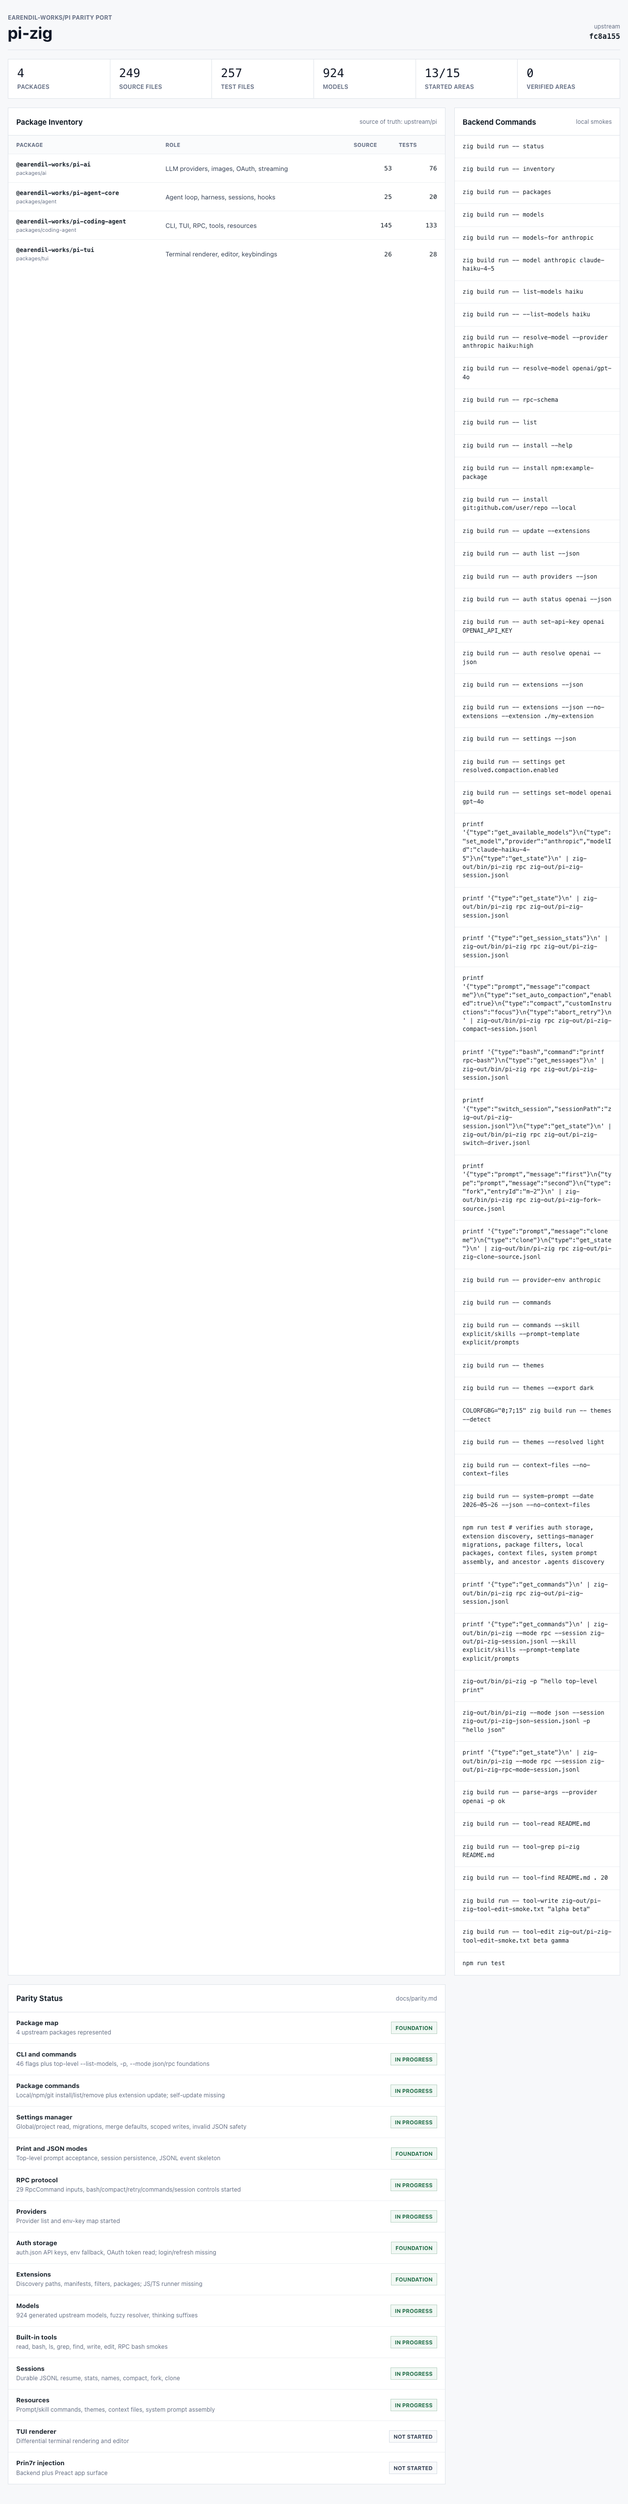
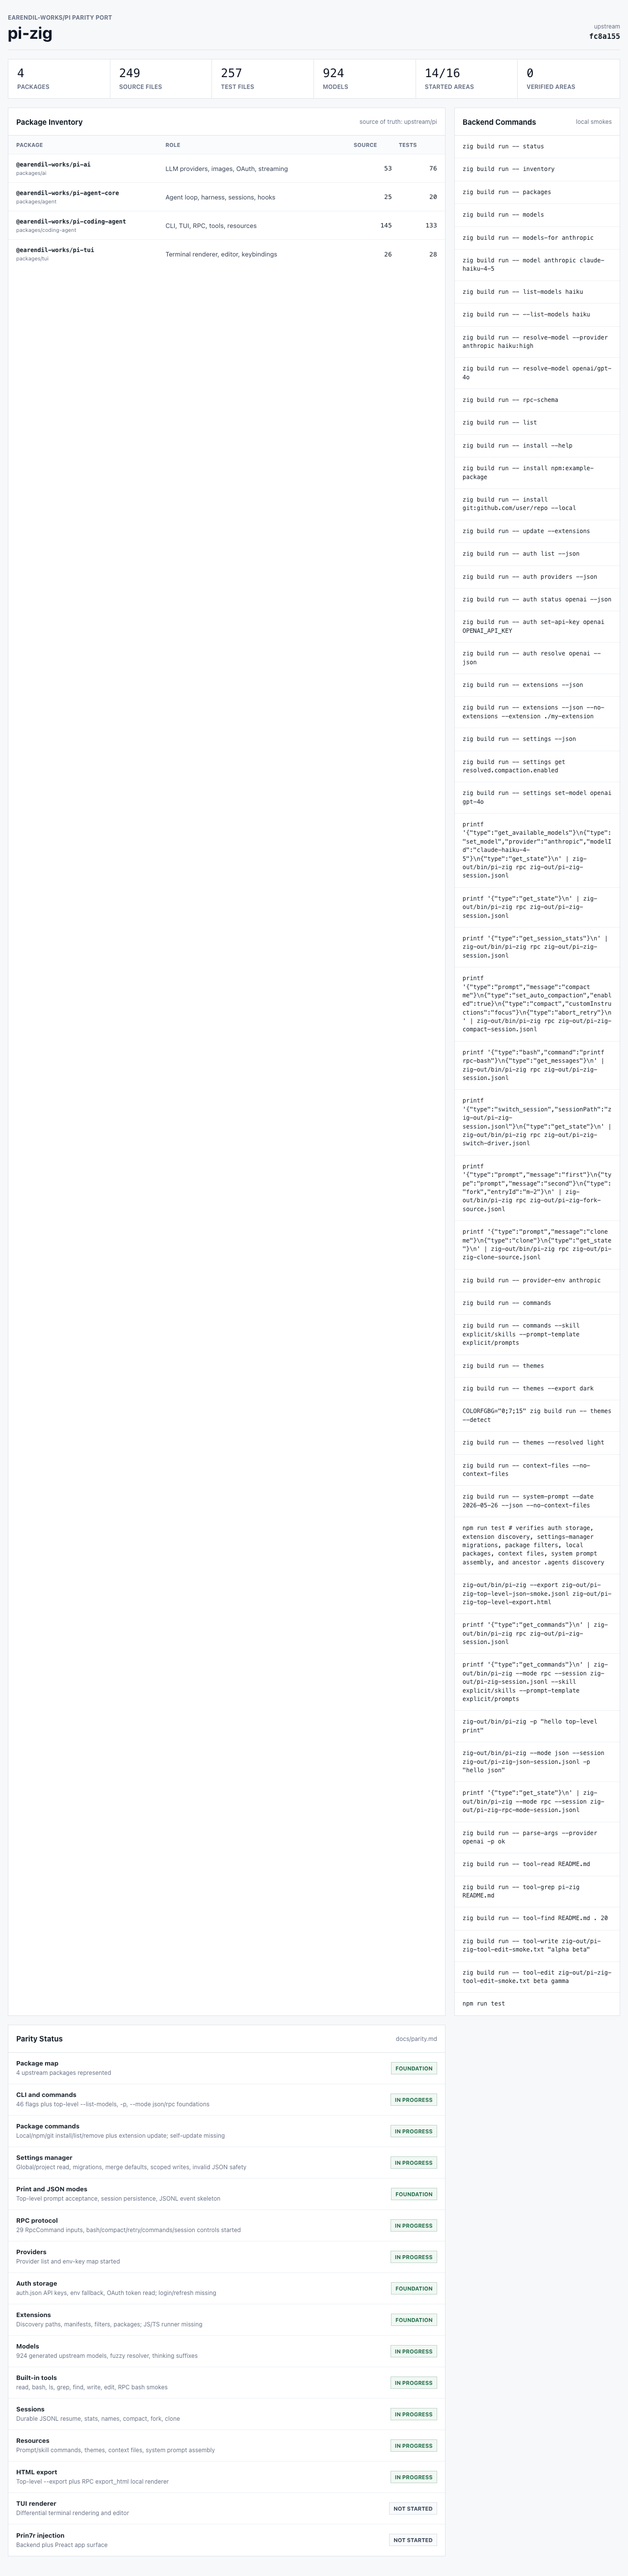
Port top-level HTML export

diff --git a/frontend/src/main.tsx b/frontend/src/main.tsx
@@ -62,6 +62,7 @@ const parity: ParityRow[] = [
   { area: 'Built-in tools', status: 'in_progress', target: 'read, bash, ls, grep, find, write, edit, RPC bash smokes' },
   { area: 'Sessions', status: 'in_progress', target: 'Durable JSONL resume, stats, names, compact, fork, clone' },
   { area: 'Resources', status: 'in_progress', target: 'Prompt/skill commands, themes, context files, system prompt assembly' },
+  { area: 'HTML export', status: 'in_progress', target: 'Top-level --export plus RPC export_html local renderer' },
   { area: 'TUI renderer', status: 'not_started', target: 'Differential terminal rendering and editor' },
   { area: 'Prin7r injection', status: 'not_started', target: 'Backend plus Preact app surface' }
 ];
@@ -111,6 +112,7 @@ const commands = [
   'zig build run -- context-files --no-context-files',
   'zig build run -- system-prompt --date 2026-05-26 --json --no-context-files',
   'npm run test # verifies auth storage, extension discovery, settings-manager migrations, package filters, local packages, context files, system prompt assembly, and ancestor .agents discovery',
+  'zig-out/bin/pi-zig --export zig-out/pi-zig-top-level-json-smoke.jsonl zig-out/pi-zig-top-level-export.html',
   'printf \'{"type":"get_commands"}\\n\' | zig-out/bin/pi-zig rpc zig-out/pi-zig-session.jsonl',
   'printf \'{"type":"get_commands"}\\n\' | zig-out/bin/pi-zig --mode rpc --session zig-out/pi-zig-session.jsonl --skill explicit/skills --prompt-template explicit/prompts',
   'zig-out/bin/pi-zig -p "hello top-level print"',

diff --git a/docs/parity.md b/docs/parity.md
@@ -26,6 +26,6 @@ Status values:
 | Extensions | `core/extensions/*`, docs/extensions.md | `src/pi/extensions.zig`, future JS/TS runner bridge | foundation | `zig-out/bin/pi-zig extensions --json` discovers project `.pi/extensions`, user `~/.pi/agent/extensions`, settings `extensions` paths and override filters, package `pi.extensions` manifests, conventional package `extensions/` directories, empty package filters, explicit `--extension` paths, and `--no-extensions` explicit-only mode; extension factory execution, registered tools/commands/flags, event handlers, UI contexts, conflicts, and runner binding are still missing |
 | Skills/templates/themes/context | `skills.ts`, `prompt-templates.ts`, `resource-loader.ts`, `modes/interactive/theme/theme.ts`, docs | `src/pi/commands.zig`, `src/pi/themes.zig`, `src/pi/context_files.zig`, `src/pi/system_prompt.zig`, future full resource loader | in_progress | CLI `commands` and top-level RPC `get_commands` discover user `~/.pi/agent/prompts`, `~/.pi/agent/skills`, `~/.agents/skills`, project `.pi/prompts`, `.pi/skills`, legacy `.pi/agent/*`, explicit `--skill` / `--prompt-template`, `skills` / `prompts` / `promptTemplates` settings paths with `~`, include globs, `!` exclusions, `+` exact re-includes, `-` exact force-excludes, local `packages` entries with `package.json` `pi.prompts` / `pi.skills` manifests or conventional `prompts/` / `skills/` directories, package object prompt/skill filters including empty-array disables, and ancestor `.agents/skills` from nested cwd; `themes` lists built-in/user/project/settings/temporary theme JSON by content name, resolves HTML export colors with recursive vars and ANSI 256-color values, detects COLORFGBG dark/light defaults, and discovers local package themes from `pi.themes` manifests or conventional `themes/` directories with package filters and empty-array disables; `context-files` discovers global and ancestor `AGENTS.md`/`CLAUDE.md` in upstream order, honors `--no-context-files` while still loading cwd/global `SYSTEM.md` and `APPEND_SYSTEM.md`; `system-prompt` composes those resources into the upstream prompt shape; watchers and extensions still incomplete |
 | TUI renderer | `packages/tui/src/*`, interactive components | Preact + terminal renderer bridge | not_started | none |
-| HTML export | `core/export-html/*` | `src/pi/rpc.zig` minimal exporter, future upstream renderer parity | in_progress | RPC `export_html` smoke with escaped local session content |
+| HTML export | `core/export-html/*` | `src/pi/session.zig` JSONL exporter, `src/pi/rpc.zig` minimal exporter, future upstream renderer parity | in_progress | top-level `--export <session> [output]` renders local JSONL messages to HTML and reports `Exported to: ...`; RPC `export_html` smoke with escaped local session content |
 | Preact workbench | n/a upstream TUI/web embedding target | `frontend/src/main.tsx` | foundation | frontend build |
 | Prin7r integration | target repo | future `patches/prin7r-pi-zig-*` | not_started | none |

diff --git a/README.md b/README.md
@@ -65,6 +65,7 @@ zig build run -- context-files
 zig build run -- context-files --no-context-files
 zig build run -- system-prompt --date 2026-05-26 --json --no-context-files
 npm run test # includes auth storage, extension discovery, settings-manager migration/write-safety, settings/package filters, local packages, context files, system prompt assembly, and ancestor .agents command discovery fixtures
+zig-out/bin/pi-zig --export zig-out/pi-zig-top-level-json-smoke.jsonl zig-out/pi-zig-top-level-export.html
 printf '{"type":"get_state"}\n' | zig build run -- rpc zig-out/pi-zig-session.jsonl
 printf '{"type":"get_available_models"}\n{"type":"set_model","provider":"anthropic","modelId":"claude-haiku-4-5"}\n{"type":"get_state"}\n' | zig build run -- rpc zig-out/pi-zig-session.jsonl
 printf '{"type":"prompt","message":"hello"}\n{"type":"get_session_stats"}\n{"type":"export_html","outputPath":"zig-out/pi-zig-session.html"}\n' | zig build run -- rpc zig-out/pi-zig-session.jsonl
